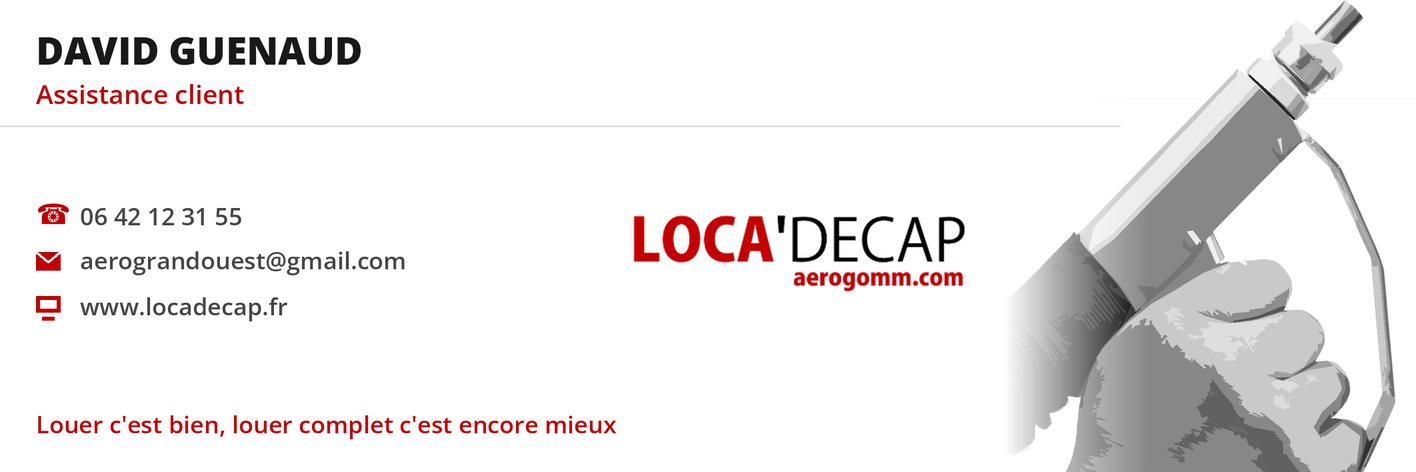
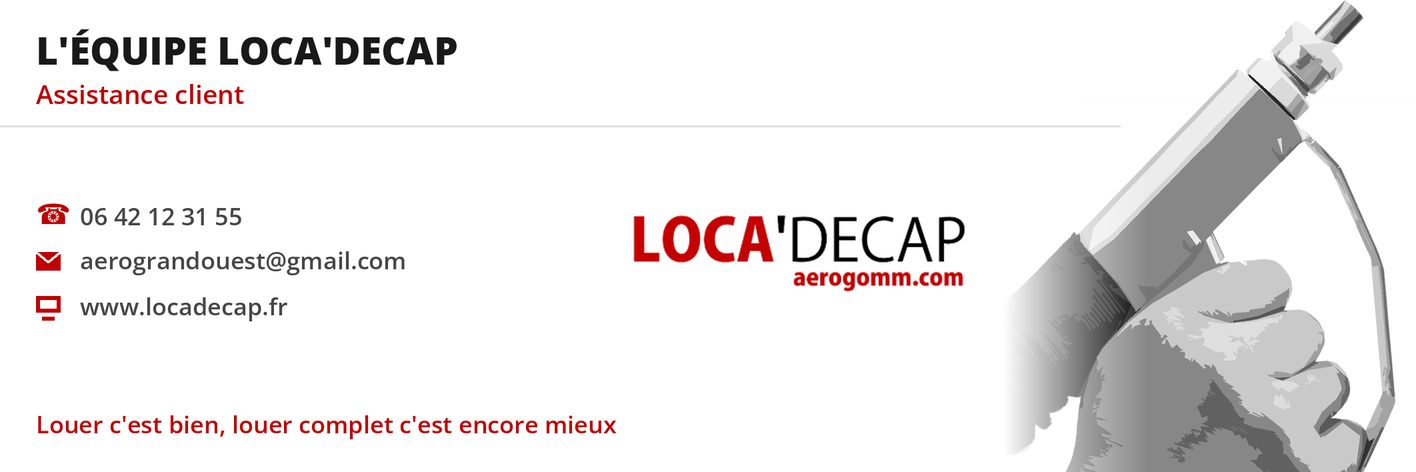
Signature LOCA'DECAP au nom du commercial du devis
Claude-Session: https://claude.ai/code/session_01EiT2G1LncskeL2VjcbvMhA

Changed region(s): [[0.0311, 0.0593, 0.3418, 0.1483]]

diff --git a/leads_commerciaux.html b/leads_commerciaux.html
@@ -638,7 +638,7 @@
           <b style="color:#C00000;font-size:13px;">Signature LOCA'DECAP + alerte plomb (devis de location)</b>
           <button type="button" class="btn btn-ghost" id="btnCopierSigLoca" style="margin-left:auto;color:#C00000;border-color:#C00000;padding:4px 10px;font-size:12px;">📋 Copier la signature</button>
         </div>
-        <img src="signature_locadecap.png" alt="Signature LOCA'DECAP" style="max-width:100%;display:block;">
+        <img id="ed_sigloca_img" src="signature_locadecap.png" alt="Signature LOCA'DECAP" style="max-width:100%;display:block;">
         <img src="alerte_plomb.jpg" alt="Attention : danger du plomb" style="max-width:240px;display:block;margin-top:8px;">
       </div>
       <p class="hint" id="ed_aide" style="margin:0;"></p>
@@ -4426,17 +4426,33 @@ async function dlFicheLoca(){
 // ---- Signature LOCA'DECAP + alerte plomb (mails des devis de location) ----
 // Les images sont sur GitHub, à côté de ce fichier : pour les changer, remplacer les fichiers (même nom).
 const LOCA_BASE = "https://aerogomm.github.io/crmcommerciaux/";
-const LOCA_SIG_IMG = LOCA_BASE + "signature_locadecap.png";
+// Une image de signature par commercial (fichier signature_locadecap_prenom-nom.png sur GitHub).
+// Pour ajouter un commercial : déposer son image et ajouter une ligne ici (le téléphone vient de DEVIS_SUIVI_PAR).
+const LOCA_SIG_FICHIERS = {
+  "David GUENAUD":  "signature_locadecap_david-guenaud.png",
+  "Jérôme GOUSSOT": "signature_locadecap_jerome-goussot.png"
+};
+const LOCA_SIG_DEFAUT = "signature_locadecap.png"; // « L'équipe LOCA'DECAP » si le commercial n'a pas d'image
+function dlSignatureLoca(commercial){
+  const suivi = dlSuiviPar(commercial);
+  const fichier = (suivi && LOCA_SIG_FICHIERS[suivi.nom]) || LOCA_SIG_DEFAUT;
+  const nom = (suivi && LOCA_SIG_FICHIERS[suivi.nom]) ? suivi.nom : "L'équipe LOCA'DECAP";
+  const tel = (suivi && LOCA_SIG_FICHIERS[suivi.nom]) ? suivi.tel.replaceAll(".", " ") : "06 42 12 31 55";
+  return {
+    fichier, img: LOCA_BASE + fichier, nom, tel,
+    texte: `${nom}\nAssistance client — LOCA'DECAP\nTél. ${tel}\naerograndouest@gmail.com\nwww.locadecap.fr`
+  };
+}
 const LOCA_PLOMB_IMG = LOCA_BASE + "alerte_plomb.jpg";
-const LOCA_SIG_TEXTE = "David GUENAUD\nAssistance client — LOCA'DECAP\nTél. 06 42 12 31 55\naerograndouest@gmail.com\nwww.locadecap.fr";
 const LOCA_PLOMB_TEXTE = "⚠ ATTENTION : DANGER DU PLOMB ⚠\nPeintures anciennes (avant 1949) : faites réaliser un diagnostic plomb AVANT tout décapage. Les poussières de plomb sont toxiques : ne décapez jamais sans protection respiratoire adaptée.";
 // Retire l'ancienne signature texte « AEROGOMM Grand Ouest » en fin de message
 function dlCorpsLoca(corps){ return (corps || "").replace(/\n*\s*AEROGOMM Grand Ouest\s*$/i, "").replace(/\s+$/, ""); }
 // Copie la signature (images) dans le presse-papiers : il suffit de faire Ctrl+V à la fin du mail dans Thunderbird
-async function dlCopierSignatureLoca(){
-  const html = `<br><img src="${LOCA_SIG_IMG}" width="600" alt="LOCA'DECAP — David GUENAUD — 06 42 12 31 55" style="display:block;border:0;"><br>`
+async function dlCopierSignatureLoca(sig){
+  sig = sig || dlSignatureLoca("");
+  const html = `<br><img src="${sig.img}" width="600" alt="LOCA'DECAP — ${escapeHtml(sig.nom)} — ${sig.tel}" style="display:block;border:0;"><br>`
     + `<img src="${LOCA_PLOMB_IMG}" width="480" alt="Attention : danger du plomb" style="display:block;border:0;"><br>`;
-  const texte = "\n" + LOCA_SIG_TEXTE + "\n\n" + LOCA_PLOMB_TEXTE;
+  const texte = "\n" + sig.texte + "\n\n" + LOCA_PLOMB_TEXTE;
   try{
     await navigator.clipboard.write([ new ClipboardItem({
       "text/html": new Blob([html], { type:"text/html" }),
@@ -4456,7 +4472,7 @@ async function dlImagePlomb(){
   }catch(err){ console.warn("Image plomb introuvable", err); return null; }
 }
 $("btnCopierSigLoca").addEventListener("click", async ()=>{
-  toast(await dlCopierSignatureLoca()
+  toast(await dlCopierSignatureLoca(dlEnvoiCtx && dlEnvoiCtx.sig)
     ? "📋 Signature copiée — dans Thunderbird, cliquez à la fin du message puis Ctrl+V"
     : "⚠ Copie impossible — réessayez");
 });
@@ -4481,6 +4497,10 @@ function dlOuvrirEnvoi(leadId, k, dem, fichiers){
   const loca = dlAvecLocation(dem);
   $("ed_corps").value = loca ? dlCorpsLoca(R(cfg.emailDevisCorps || DEVIS_CORPS_DEFAUT)) : R(cfg.emailDevisCorps || DEVIS_CORPS_DEFAUT);
   $("ed_sigloca").style.display = loca ? "block" : "none";
+  // Signature au nom du commercial du devis (sinon celui de la fiche)
+  const commercial = dem.commercial || (ouvert ? ($("f_commercial") ? $("f_commercial").value : "") : (l[FIELD.commercial] || ""));
+  dlEnvoiCtx.sig = dlSignatureLoca(commercial);
+  $("ed_sigloca_img").src = dlEnvoiCtx.sig.fichier;
   $("ed_statut").innerHTML = dlEnvoiCtx.fichiers
     ? `✅ Devis n° <b>${escapeHtml(nums)}</b> prêt${dlEnvoiCtx.fichiers.length > 1 ? ` — ${dlEnvoiCtx.fichiers.length} PDF (un par enseigne), joints à la fiche` : " — le PDF est joint à la fiche"} (📎 Pièces jointes).`
     : `📄 Devis n° <b>${escapeHtml(nums)}</b>. Le PDF sera préparé au moment de l'envoi.`;
@@ -4529,7 +4549,8 @@ $("btnEnvoiClient").addEventListener("click", async ()=>{
   if(!/^\S+@\S+\.\S+$/.test(a)){ toast("Indiquez une adresse email valide pour le client"); return; }
   const loca = dlAvecLocation(ctx.dem);
   // Ordinateur : signature LOCA'DECAP + alerte plomb copiées tout de suite (à coller avec Ctrl+V dans Thunderbird)
-  const sigCopiee = (loca && !dlMobile()) ? dlCopierSignatureLoca() : Promise.resolve(false);
+  const sig = ctx.sig || dlSignatureLoca(ctx.dem.commercial || "");
+  const sigCopiee = (loca && !dlMobile()) ? dlCopierSignatureLoca(sig) : Promise.resolve(false);
   if(!ctx.fichiers){
     veil(true);
     try{ ctx.fichiers = await dlFabriquerFichiers(ctx.dem); }
@@ -4549,7 +4570,7 @@ $("btnEnvoiClient").addEventListener("click", async ()=>{
     const img = await dlImagePlomb();
     if(img) aJoindre.push(img);
   }
-  const corpsMobile = loca ? corps.replace(/\s+$/, "") + "\n\n" + LOCA_SIG_TEXTE + "\n\n" + LOCA_PLOMB_TEXTE : corps;
+  const corpsMobile = loca ? corps.replace(/\s+$/, "") + "\n\n" + sig.texte + "\n\n" + LOCA_PLOMB_TEXTE : corps;
   const noms = (aJoindre || []).map(f=> f.name);
   // Téléphone : partage natif avec le(s) PDF en pièce jointe (Gmail…)
   if(dlMobile() && aJoindre && navigator.canShare){
